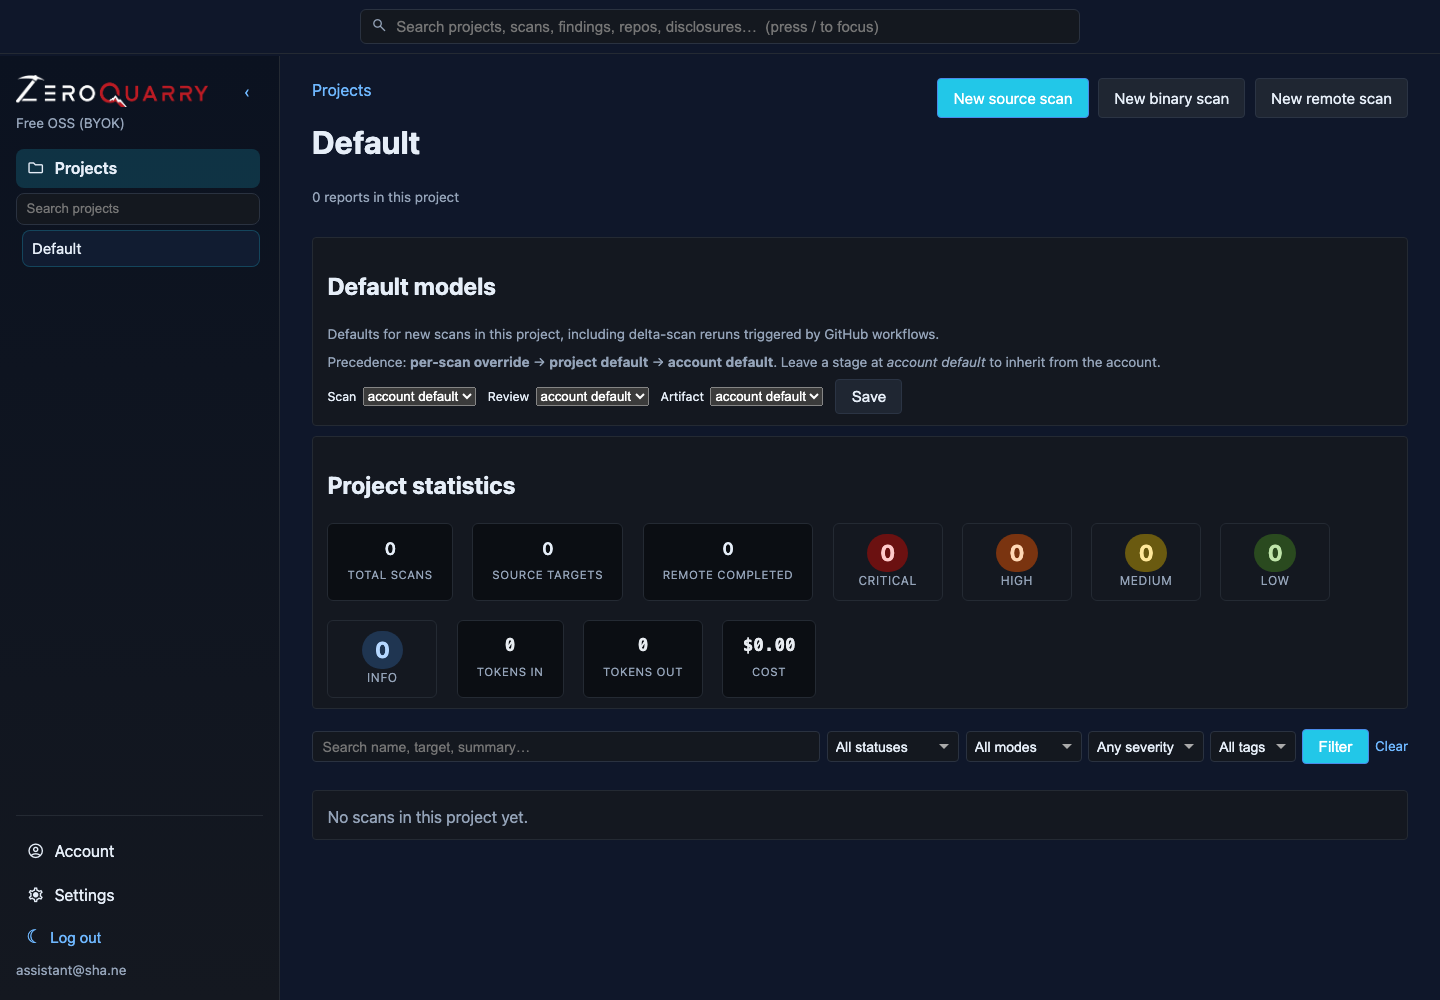
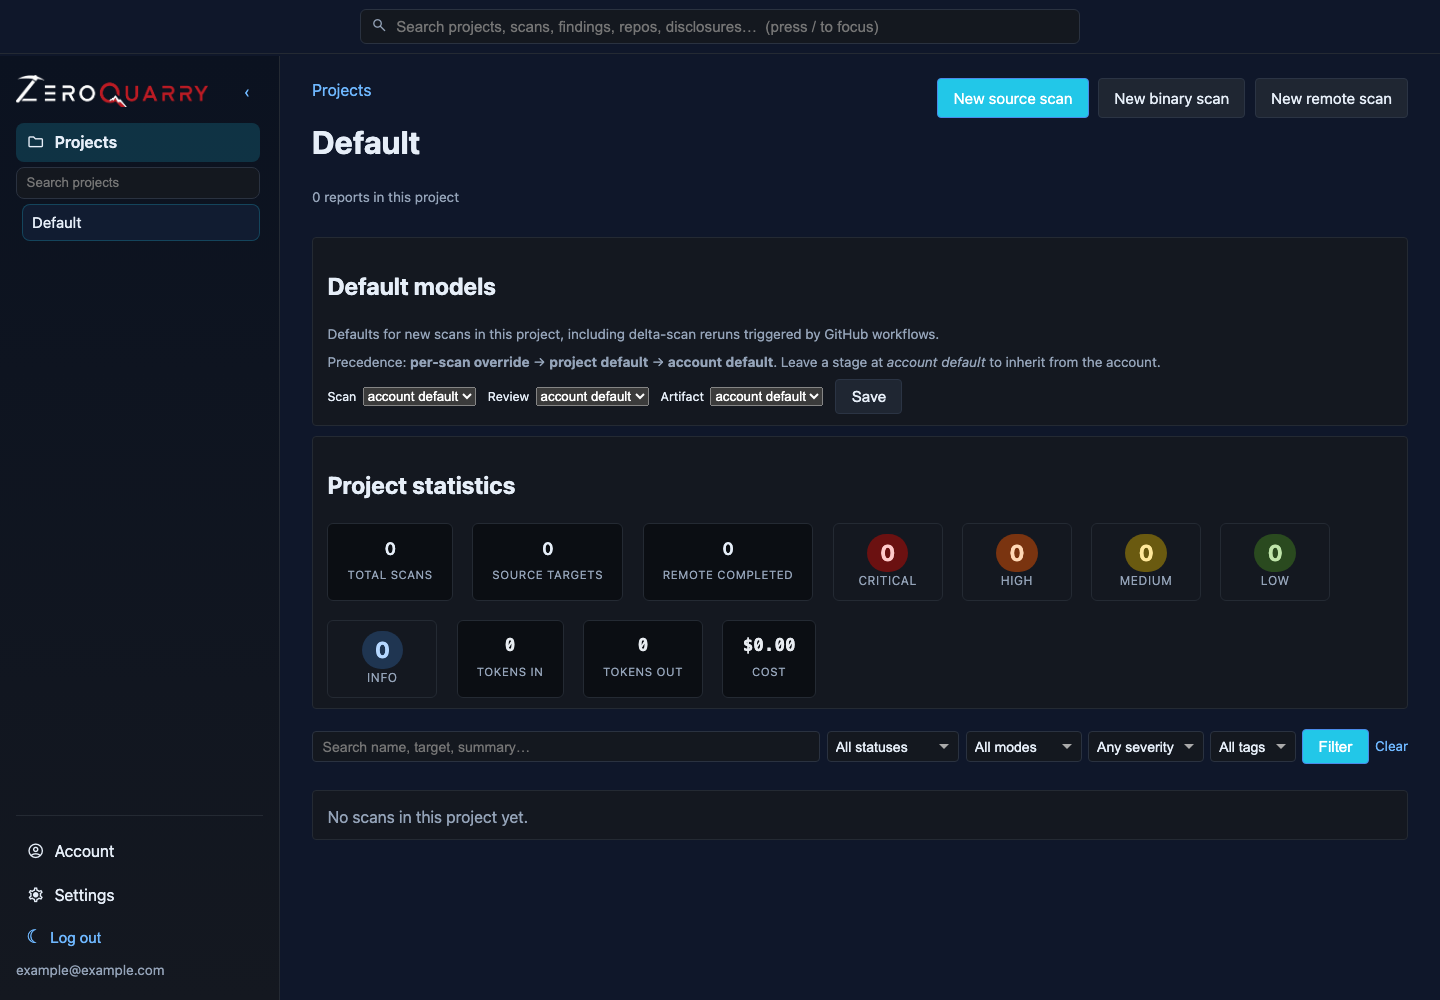
Add additional screenshots

Changed region(s): [[0.0, 0.093, 0.1875, 0.279], [0.0312, 0.961, 0.0938, 0.992]]

diff --git a/scripts/screenshots/config.js b/scripts/screenshots/config.js
@@ -19,6 +19,79 @@ const screenshotTargets = [
     path: "/account",
     description: "Account overview, usage, integrations, and team settings",
   },
+  {
+    name: "projects-manage",
+    path: "/projects",
+    description: "Projects index with account-wide project management",
+  },
+  {
+    name: "project-detail",
+    path: "/projects/{ZEROQUARRY_DOCS_PROJECT_ID}",
+    description: "Project detail with scan history, tags, and stats",
+    requiredEnv: ["ZEROQUARRY_DOCS_PROJECT_ID"],
+  },
+  {
+    name: "scan-new-picker",
+    path: "/scans/new",
+    description: "Scan mode picker for choosing source, binary, or remote assessments",
+  },
+  {
+    name: "source-scan-form",
+    path: "/scans/new/source?project_id={ZEROQUARRY_DOCS_PROJECT_ID}",
+    description: "Source scan creation form",
+    requiredEnv: ["ZEROQUARRY_DOCS_PROJECT_ID"],
+  },
+  {
+    name: "binary-scan-form",
+    path: "/scans/new/binary?project_id={ZEROQUARRY_DOCS_PROJECT_ID}",
+    description: "Binary scan creation form",
+    requiredEnv: ["ZEROQUARRY_DOCS_PROJECT_ID"],
+  },
+  {
+    name: "remote-scan-form",
+    path: "/scans/new/remote?project_id={ZEROQUARRY_DOCS_PROJECT_ID}",
+    description: "Remote scan creation form with scoping and auth controls",
+    requiredEnv: ["ZEROQUARRY_DOCS_PROJECT_ID"],
+  },
+  {
+    name: "account-git-access",
+    path: "/account/git-credentials",
+    description: "Account-level Git credential management for private repositories",
+  },
+  {
+    name: "account-api-keys",
+    path: "/account/api-keys",
+    description: "Account API key management for CI and automation",
+  },
+  {
+    name: "report-overview",
+    path: "/reports/{ZEROQUARRY_DOCS_SCAN_ID}/",
+    description: "Report overview with findings, lineage, and review controls",
+    requiredEnv: ["ZEROQUARRY_DOCS_SCAN_ID"],
+  },
+  {
+    name: "finding-detail",
+    path: "/reports/{ZEROQUARRY_DOCS_SCAN_ID}/findings/{ZEROQUARRY_DOCS_FINDING_ID}",
+    description: "Finding detail with evidence, PoC, review state, and follow-up actions",
+    requiredEnv: ["ZEROQUARRY_DOCS_SCAN_ID", "ZEROQUARRY_DOCS_FINDING_ID"],
+  },
+  {
+    name: "report-export",
+    path: "/reports/{ZEROQUARRY_DOCS_SCAN_ID}/export",
+    description: "Report export options and filters",
+    requiredEnv: ["ZEROQUARRY_DOCS_SCAN_ID"],
+  },
+  {
+    name: "disclosures-list",
+    path: "/disclosures",
+    description: "Disclosure tracker list view",
+  },
+  {
+    name: "disclosure-detail",
+    path: "/disclosures/{ZEROQUARRY_DOCS_DISCLOSURE_ID}",
+    description: "Disclosure detail with timeline and reporting metadata",
+    requiredEnv: ["ZEROQUARRY_DOCS_DISCLOSURE_ID"],
+  },
 ];
 
 function env(name, fallback = "") {
@@ -53,13 +126,24 @@ function cookieDomain() {
   }
 }
 
+function missingRequiredEnv(target) {
+  const names = target.requiredEnv || [];
+  return names.filter((name) => !env(name));
+}
+
+function resolvePathTemplate(pathTemplate) {
+  return pathTemplate.replace(/\{([A-Z0-9_]+)\}/g, (_match, name) => env(name));
+}
+
 module.exports = {
   ROOT_DIR,
   SESSION_COOKIE_NAME,
   authStatePath,
   baseUrl,
   cookieDomain,
+  missingRequiredEnv,
   outputDir,
+  resolvePathTemplate,
   screenshotTargets,
   viewport,
 };

diff --git a/scripts/screenshots/helpers.js b/scripts/screenshots/helpers.js
@@ -13,6 +13,7 @@ const {
 
 const SECRET_SELECTORS = [
   "input[type='password']",
+  "input[type='email']",
   "input[name*='api' i]",
   "input[name*='key' i]",
   "input[name*='token' i]",
@@ -21,6 +22,11 @@ const SECRET_SELECTORS = [
   "textarea[name*='token' i]",
   "textarea[name*='secret' i]",
   "[data-screenshot-mask]",
+];
+
+const DEFAULT_EMAIL_REPLACEMENT = "[email redacted]";
+const HIDE_SELECTORS = [
+  ".sidebar-top .sidebar-meta[title='Your current tier']",
 ];
 
 async function newBrowser() {
@@ -70,13 +76,22 @@ async function assertSignedIn(page) {
 }
 
 async function preparePage(page) {
+  const emailReplacement =
+    (process.env.ZEROQUARRY_SCREENSHOT_EMAIL_REPLACEMENT || "").trim() ||
+    DEFAULT_EMAIL_REPLACEMENT;
   const redactions = (process.env.ZEROQUARRY_SCREENSHOT_REDACTIONS || "")
     .split(",")
     .map((value) => value.trim())
     .filter(Boolean);
 
-  if (redactions.length) {
-    await page.evaluate((values) => {
+  await page.evaluate(
+    ({ values, replacement, hideSelectors }) => {
+      for (const selector of hideSelectors) {
+        document.querySelectorAll(selector).forEach((element) => {
+          element.remove();
+        });
+      }
+
       const walker = document.createTreeWalker(
         document.body,
         NodeFilter.SHOW_TEXT
@@ -84,14 +99,39 @@ async function preparePage(page) {
       const nodes = [];
       while (walker.nextNode()) nodes.push(walker.currentNode);
       for (const node of nodes) {
-        let text = node.nodeValue || "";
+        let text = (node.nodeValue || "").replace(
+          /\b[A-Z0-9._%+-]+@[A-Z0-9.-]+\.[A-Z]{2,}\b/gi,
+          replacement
+        );
         for (const value of values) {
           text = text.split(value).join("[redacted]");
         }
         node.nodeValue = text;
       }
-    }, redactions);
-  }
+
+      document
+        .querySelectorAll("input, textarea")
+        .forEach((element) => {
+          if (typeof element.value === "string" && element.value) {
+            element.value = element.value.replace(
+              /\b[A-Z0-9._%+-]+@[A-Z0-9.-]+\.[A-Z]{2,}\b/gi,
+              replacement
+            );
+          }
+          if (typeof element.placeholder === "string" && element.placeholder) {
+            element.placeholder = element.placeholder.replace(
+              /\b[A-Z0-9._%+-]+@[A-Z0-9.-]+\.[A-Z]{2,}\b/gi,
+              replacement
+            );
+          }
+        });
+    },
+    {
+      values: redactions,
+      replacement: emailReplacement,
+      hideSelectors: HIDE_SELECTORS,
+    }
+  );
 
   await page.addStyleTag({
     content: `
@@ -100,6 +140,7 @@ async function preparePage(page) {
       }
 
       input[type='password'],
+      input[type='email'],
       input[name*='api' i],
       input[name*='key' i],
       input[name*='token' i],

diff --git a/scripts/screenshots/capture.js b/scripts/screenshots/capture.js
@@ -3,7 +3,9 @@
 const path = require("path");
 const {
   baseUrl,
+  missingRequiredEnv,
   outputDir,
+  resolvePathTemplate,
   screenshotTargets,
 } = require("./config");
 const {
@@ -19,17 +21,37 @@ async function main() {
   try {
     const context = await newContext(browser);
     const page = await context.newPage();
+    const skipped = [];
 
     await assertSignedIn(page);
 
     for (const target of screenshotTargets) {
+      const missing = missingRequiredEnv(target);
+      if (missing.length) {
+        skipped.push({ target, missing });
+        console.log(
+          `Skipped ${target.name}: missing ${missing.join(", ")}`
+        );
+        continue;
+      }
+
       const filePath = path.join(outputDir(), `${target.name}.png`);
-      await page.goto(target.path, { waitUntil: "networkidle" });
+      await page.goto(resolvePathTemplate(target.path), { waitUntil: "networkidle" });
       if (new URL(page.url()).pathname === "/login") {
         throw new Error(`Auth expired while capturing ${target.name}.`);
       }
       await maskedScreenshot(page, filePath);
       console.log(`Captured ${target.name}: ${filePath}`);
+    }
+
+    if (skipped.length) {
+      console.log("");
+      console.log("Skipped targets:");
+      for (const item of skipped) {
+        console.log(
+          `- ${item.target.name}: set ${item.missing.join(", ")}`
+        );
+      }
     }
   } finally {
     await browser.close();

diff --git a/README.md b/README.md
@@ -33,7 +33,9 @@ written to `static/img/screenshots/`.
 
 Use a dedicated production docs account with public-safe demo data. The scripts
 never store credentials; they use either a saved browser auth state or a session
-cookie supplied by the environment.
+cookie supplied by the environment. During capture, the helper removes the
+sidebar tier label and replaces visible email addresses with
+`[email redacted]` by default.
 
 First-time local setup:
 
@@ -62,8 +64,20 @@ Optional overrides:
 - `ZEROQUARRY_SCREENSHOT_DIR`: output directory
 - `ZEROQUARRY_SCREENSHOT_HEADLESS=0`: show the browser during capture
 - `ZEROQUARRY_SCREENSHOT_WIDTH` / `ZEROQUARRY_SCREENSHOT_HEIGHT`: viewport size
+- `ZEROQUARRY_SCREENSHOT_EMAIL_REPLACEMENT`: replacement text for any visible
+  email addresses
 - `ZEROQUARRY_SCREENSHOT_REDACTIONS`: comma-separated text to replace with
   `[redacted]` before capture
+
+Seeded screenshot targets that need stable production IDs can be supplied with:
+
+- `ZEROQUARRY_DOCS_PROJECT_ID`
+- `ZEROQUARRY_DOCS_SCAN_ID`
+- `ZEROQUARRY_DOCS_FINDING_ID`
+- `ZEROQUARRY_DOCS_DISCLOSURE_ID`
+
+Targets that depend on one of those IDs are skipped automatically when the
+environment variable is not set.
 
 Reference generated images from docs as `/img/screenshots/<name>.png`.
 